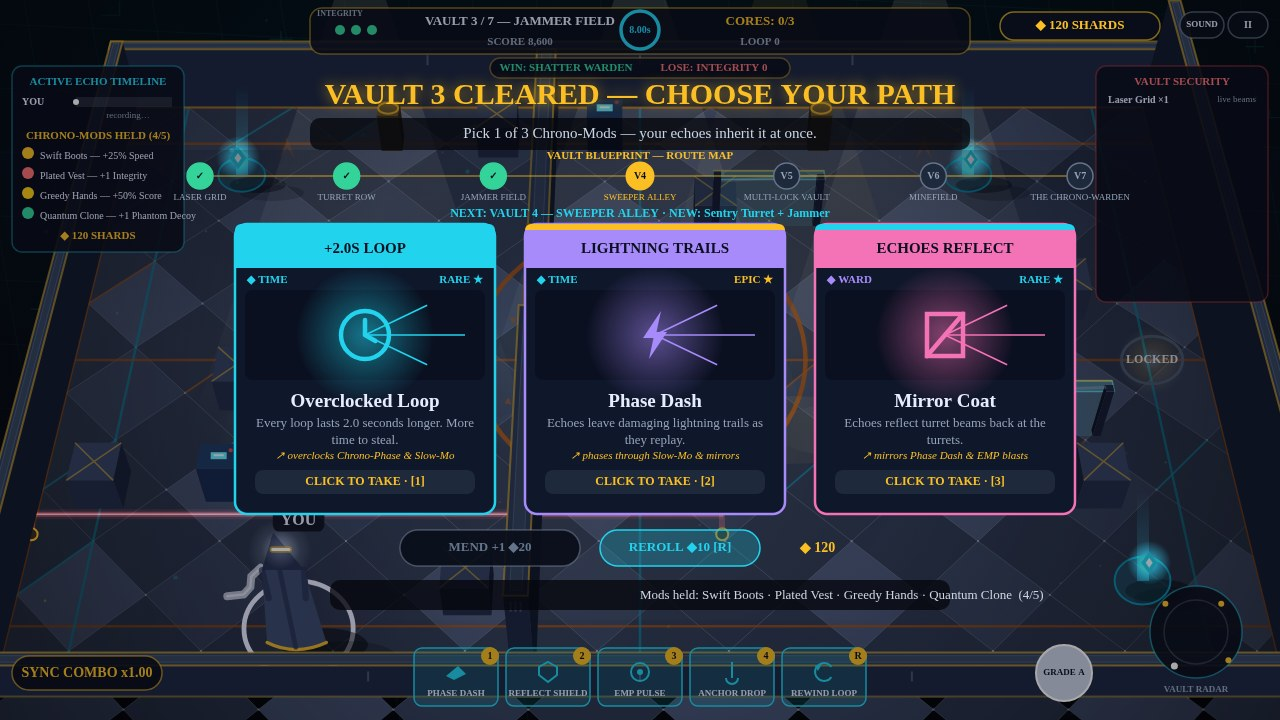
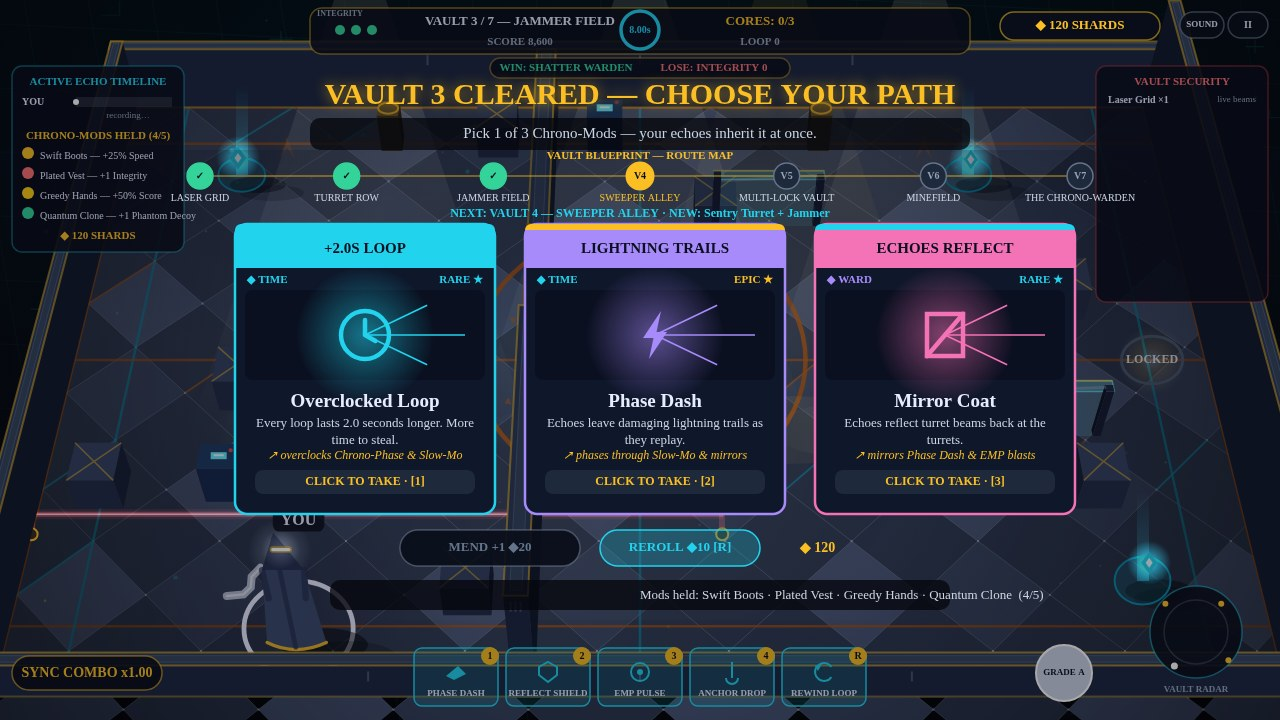
top1-push: luminous open-frame Warden core, 6 wing arms, boosted tethers + corner prism rays, thumbnail-crisp title/draft type

diff --git a/game/src/entities.js b/game/src/entities.js
@@ -586,7 +586,7 @@ export function drawWarden(ctx, w, time) {
   for (let k = -1; k <= 1; k++) {
     const lb = iso(x + k * 36, y + 19);
     const lt = iso(x + k * 36, y + 19, 28);
-    ctx.fillStyle = '#4a4238';
+    ctx.fillStyle = '#6b5a2e';
     ctx.fillRect(lb.x - 6, lt.y, 12, lb.y - lt.y);
     ctx.fillStyle = GOLD;
     ctx.fillRect(lb.x - 6, lb.y - 6, 12, 4);
@@ -668,41 +668,65 @@ export function drawWarden(ctx, w, time) {
     hexTop.push(iso(x + Math.cos(a) * 63, y + Math.sin(a) * 63, 48));
     hexBot.push(iso(x + Math.cos(a) * 63, y + Math.sin(a) * 63, 0));
   }
-  for (let i = 0; i < 6; i++) {
-    const j = (i + 1) % 6;
-    ctx.fillStyle = i % 2 === 0 ? '#1c2740' : '#141b2e';
+  // Open luminous frame: golden halo + blazing hourglass star, NO dark fill.
+  glowAt(ctx, glowSprite(GOLD, { a0: 0.85 }), top.x, top.y, 80);
+  glowAt(ctx, glowSprite('#fde68a', { a0: 0.9 }), top.x, top.y, 55);
+  const star = (r, col, a) => {
+    ctx.save();
+    ctx.globalCompositeOperation = 'lighter';
+    ctx.globalAlpha = a;
+    ctx.fillStyle = col;
     ctx.beginPath();
-    ctx.moveTo(hexTop[i].x, hexTop[i].y);
-    ctx.lineTo(hexTop[j].x, hexTop[j].y);
-    ctx.lineTo(hexBot[j].x, hexBot[j].y);
-    ctx.lineTo(hexBot[i].x, hexBot[i].y);
+    for (let k = 0; k < 8; k++) {
+      const an = (k / 8) * Math.PI * 2 - Math.PI / 2;
+      const rr = k % 2 === 0 ? r : r * 0.22;
+      const px = top.x + Math.cos(an) * rr * 0.8, py = top.y + Math.sin(an) * rr;
+      k === 0 ? ctx.moveTo(px, py) : ctx.lineTo(px, py);
+    }
     ctx.closePath();
     ctx.fill();
+    ctx.restore();
+  };
+  star(40, GOLD, 0.9);
+  star(28, '#f97316', 0.95);
+  star(14, '#fef3c7', 1);
+  dot(ctx, top.x, top.y, 5, '#fff');
+  ctx.save();
+  ctx.globalCompositeOperation = 'lighter';
+  ctx.strokeStyle = 'rgba(254,243,199,0.85)';
+  ctx.lineWidth = 3;
+  ctx.lineCap = 'round';
+  for (const [dx, dy] of [[0, -1], [1, 0], [0, 1], [-1, 0]]) {
+    ctx.beginPath();
+    ctx.moveTo(top.x + dx * 24, top.y + dy * 24);
+    ctx.lineTo(top.x + dx * 64, top.y + dy * 64);
+    ctx.stroke();
   }
-  ctx.fillStyle = '#232a42';
+  ctx.restore();
+  // Gilded hex frame, stroke only, with open edge columns (a clockwork cage).
   ctx.strokeStyle = GOLD;
   ctx.lineWidth = 3;
   ctx.beginPath();
   hexTop.forEach((p, i) => (i === 0 ? ctx.moveTo(p.x, p.y) : ctx.lineTo(p.x, p.y)));
   ctx.closePath();
-  ctx.fill();
   ctx.stroke();
-  ctx.save();
-  ctx.strokeStyle = CYAN;
-  ctx.lineWidth = 2;
+  ctx.strokeStyle = 'rgba(34,211,238,0.7)';
+  ctx.lineWidth = 1.5;
   ctx.beginPath();
-  ctx.ellipse(top.x, top.y, 28, 16, 0, 0, Math.PI * 2);
+  hexTop.forEach((p, i) => {
+    const qx = top.x + (p.x - top.x) * 0.8, qy = top.y + (p.y - top.y) * 0.8;
+    i === 0 ? ctx.moveTo(qx, qy) : ctx.lineTo(qx, qy);
+  });
+  ctx.closePath();
   ctx.stroke();
-  for (let i = 0; i < 8; i++) {
-    const a = (i / 8) * Math.PI * 2 + time * 0.4;
-    const s1 = iso(x + Math.cos(a) * 28, y + Math.sin(a) * 28, 48);
-    const s2 = iso(x + Math.cos(a) * 38, y + Math.sin(a) * 38, 48);
+  ctx.strokeStyle = 'rgba(251,191,36,0.8)';
+  ctx.lineWidth = 2.5;
+  for (let i = 0; i < 6; i++) {
     ctx.beginPath();
-    ctx.moveTo(s1.x, s1.y);
-    ctx.lineTo(s2.x, s2.y);
+    ctx.moveTo(hexTop[i].x, hexTop[i].y);
+    ctx.lineTo(hexBot[i].x, hexBot[i].y);
     ctx.stroke();
   }
-  ctx.restore();
   const ring = (rx, ry, rot, col) => {
     ctx.save();
     ctx.strokeStyle = col;
@@ -715,12 +739,12 @@ export function drawWarden(ctx, w, time) {
     dot(ctx, nx, ny, 3.5, col);
     ctx.restore();
   };
-  ring(42, 24, time * 0.3, 'rgba(251,191,36,0.8)');
-  ring(34, 19, -time * 0.45, 'rgba(34,211,238,0.7)');
+  ring(50, 29, time * 0.3, 'rgba(251,191,36,0.9)');
+  ring(40, 23, -time * 0.45, 'rgba(34,211,238,0.8)');
   const gaze = w.gaze || 0;
   const gx = Math.cos(gaze) * 3, gy = Math.sin(gaze) * 1.5;
   const pupilR = w.state === 'telegraph' ? 3 : w.state === 'sweep' ? 8 : w.shield ? 4 : 7;
-  const glowR = w.state === 'sweep' ? 40 : w.state === 'telegraph' ? 34 + 4 * Math.sin(time * 10) : 30;
+  const glowR = w.state === 'sweep' ? 48 : w.state === 'telegraph' ? 42 + 5 * Math.sin(time * 10) : 38;
   glowAt(ctx, glowSprite(RED, { a0: 1 }), top.x, top.y, glowR);
   ctx.fillStyle = '#7f1d1d';
   ctx.beginPath();
@@ -738,11 +762,30 @@ export function drawWarden(ctx, w, time) {
   ctx.fill();
   dot(ctx, top.x + gx, top.y + gy, pupilR, DARKT);
   dot(ctx, top.x + gx - 2, top.y + gy - 2, 1.5, '#fff');
+  // 6 articulated mechanical wings: two-segment blades, flapping slowly.
   for (let i = 0; i < 6; i++) {
     const a = (i / 6) * Math.PI * 2 + time * 0.25;
-    const gx = iso(x + Math.cos(a) * 63, y + Math.sin(a) * 63, 67);
-    dot(ctx, gx.x, gx.y, 7, '#8b93ad');
-    dot(ctx, gx.x, gx.y, 3, GOLD);
+    const flap = Math.sin(time * 2 + i * 1.1) * 7;
+    const b = iso(x + Math.cos(a) * 63, y + Math.sin(a) * 63, 67);
+    const j = iso(x + Math.cos(a) * 84, y + Math.sin(a) * 84, 78 + flap * 0.5);
+    const t = iso(x + Math.cos(a) * 104, y + Math.sin(a) * 104, 88 + flap);
+    const px = -(t.y - b.y), py = t.x - b.x;
+    const pl = Math.hypot(px, py) || 1;
+    const ux = px / pl, uy = py / pl;
+    ctx.fillStyle = 'rgba(251,191,36,0.92)';
+    ctx.beginPath();
+    ctx.moveTo(b.x + ux * 7, b.y + uy * 7);
+    ctx.lineTo(j.x + ux * 5, j.y + uy * 5);
+    ctx.lineTo(t.x, t.y);
+    ctx.lineTo(j.x - ux * 5, j.y - uy * 5);
+    ctx.lineTo(b.x - ux * 7, b.y - uy * 7);
+    ctx.closePath();
+    ctx.fill();
+    ctx.strokeStyle = 'rgba(34,211,238,0.7)';
+    ctx.lineWidth = 1.5;
+    ctx.stroke();
+    dot(ctx, j.x, j.y, 3.5, GOLD);
+    dot(ctx, t.x, t.y, 2.5, '#fef3c7');
   }
   ctx.restore(); // end 1.6x body scale
   ctx.save();
@@ -756,7 +799,7 @@ export function drawWarden(ctx, w, time) {
   for (const a of WARDEN_PYLONS) {
     const px = iso(x + Math.cos(a) * 52, y + Math.sin(a) * 52, 0);
     const pt = iso(x + Math.cos(a) * 52, y + Math.sin(a) * 52, 22);
-    ctx.fillStyle = w.shield ? '#3a2f14' : '#1a1214';
+    ctx.fillStyle = w.shield ? '#6b5a2e' : '#3f1d24';
     ctx.beginPath();
     ctx.moveTo(pt.x, pt.y);
     ctx.lineTo(px.x + 6, px.y);
@@ -764,8 +807,9 @@ export function drawWarden(ctx, w, time) {
     ctx.lineTo(px.x - 6, px.y);
     ctx.closePath();
     ctx.fill();
-    dot(ctx, pt.x, pt.y, 4, w.shield ? GOLD : '#7f1d1d');
-    ctx.strokeStyle = w.shield ? 'rgba(251,191,36,0.35)' : 'rgba(239,68,68,0.25)';
+    glowAt(ctx, glowSprite(w.shield ? GOLD : RED, { a0: 0.8 }), pt.x, pt.y, 16);
+    dot(ctx, pt.x, pt.y, 6, w.shield ? GOLD : '#ef4444');
+    ctx.strokeStyle = w.shield ? 'rgba(251,191,36,0.6)' : 'rgba(239,68,68,0.45)';
     ctx.lineWidth = 1.5;
     ctx.beginPath();
     ctx.moveTo(pt.x, pt.y);

diff --git a/game/src/render.js b/game/src/render.js
@@ -892,27 +892,57 @@ function drawTethers(ctx, G, time) {
     const n = iso(w.x + Math.cos(best) * 52, w.y + Math.sin(best) * 52, 24);
     const s = iso(e.x, e.y, 42);
     const pulse = 0.75 + 0.25 * Math.sin(time * 5 + e.idx * 1.7);
-    ctx.strokeStyle = e.color + '2e';
+    ctx.strokeStyle = e.color + '1f';
+    ctx.lineWidth = 18;
+    ctx.beginPath();
+    ctx.moveTo(s.x, s.y);
+    ctx.lineTo(n.x, n.y);
+    ctx.stroke();
+    ctx.strokeStyle = e.color + '4d';
     ctx.lineWidth = 10;
     ctx.beginPath();
     ctx.moveTo(s.x, s.y);
     ctx.lineTo(n.x, n.y);
     ctx.stroke();
-    ctx.strokeStyle = e.color + '66';
+    ctx.strokeStyle = e.color + 'd9';
     ctx.lineWidth = 5;
     ctx.beginPath();
     ctx.moveTo(s.x, s.y);
     ctx.lineTo(n.x, n.y);
     ctx.stroke();
-    ctx.strokeStyle = 'rgba(254,243,199,' + (0.9 * pulse).toFixed(2) + ')';
-    ctx.lineWidth = 2;
+    ctx.strokeStyle = 'rgba(254,243,199,' + (0.95 * pulse).toFixed(2) + ')';
+    ctx.lineWidth = 2.5;
     ctx.beginPath();
     ctx.moveTo(s.x, s.y);
     ctx.lineTo(n.x, n.y);
     ctx.stroke();
+    dot(ctx, s.x, s.y, 4, '#fef3c7');
     const tt = (time * 0.45 + e.idx * 0.25) % 1;
-    dot(ctx, s.x + (n.x - s.x) * tt, s.y + (n.y - s.y) * tt, 3.5, '#fff');
-    dot(ctx, n.x, n.y, 4, GOLD);
+    dot(ctx, s.x + (n.x - s.x) * tt, s.y + (n.y - s.y) * tt, 5, '#fff');
+    dot(ctx, n.x, n.y, 6, GOLD);
+  }
+  // Corner prism reflections: bright rays from the 4 screen corners to the core.
+  const core = iso(w.x, w.y, 48);
+  const corners = [[0, 0, CYAN], [W, 0, GOLD], [0, H, GOLD], [W, H, CYAN]];
+  for (const [cx, cy, col] of corners) {
+    const tx = core.x + (cx < W / 2 ? -30 : 30);
+    const ty = core.y + (cy < H / 2 ? -18 : 18);
+    ctx.strokeStyle = col + '38';
+    ctx.lineWidth = 14;
+    ctx.beginPath(); ctx.moveTo(cx, cy); ctx.lineTo(tx, ty); ctx.stroke();
+    ctx.strokeStyle = col + '8c';
+    ctx.lineWidth = 6;
+    ctx.beginPath(); ctx.moveTo(cx, cy); ctx.lineTo(tx, ty); ctx.stroke();
+    ctx.strokeStyle = 'rgba(255,255,255,0.85)';
+    ctx.lineWidth = 2;
+    ctx.beginPath(); ctx.moveTo(cx, cy); ctx.lineTo(tx, ty); ctx.stroke();
+    const ix = cx < W / 2 ? 16 : W - 16, iy = cy < H / 2 ? 16 : H - 16;
+    glowAt(ctx, glowSprite(col, { a0: 0.8 }), ix, iy, 18);
+    ctx.fillStyle = '#fff';
+    ctx.beginPath();
+    ctx.moveTo(ix, iy - 6); ctx.lineTo(ix + 6, iy); ctx.lineTo(ix, iy + 6); ctx.lineTo(ix - 6, iy);
+    ctx.closePath(); ctx.fill();
+    dot(ctx, tx, ty, 3.5, '#fff');
   }
   ctx.restore();
 }
@@ -1197,9 +1227,9 @@ export function drawTitle(ctx, G, time) {
     ctx.fillStyle = t[2];
     ctx.beginPath(); ctx.arc(1098, y - 2, 5, 0, Math.PI * 2); ctx.fill();
     text(ctx, t[0], 1110, y - 2, F11, INK, 'left');
-    text(ctx, t[1], 1110, y + 12, R10, MUTE, 'left');
+    text(ctx, t[1], 1110, y + 12, R10, PALE, 'left');
   });
-  text(ctx, 'DIFFICULTY', 640, 488, F11, MUTE);
+  text(ctx, 'DIFFICULTY', 640, 488, F11, PALE);
   const diffs = [['CALM', '×0.75'], ['HEIST', '×1'], ['NIGHTMARE', '×1.5']];
   diffs.forEach((d, i) => {
     const x = 445 + i * 135, sel = G.diff === d[0];
@@ -1320,7 +1350,7 @@ export function drawDraft(ctx, G) {
     ctx.strokeStyle = done ? GREEN : next ? GOLD : SLATE;
     ctx.lineWidth = next ? 3 : 1.5; ctx.stroke();
     text(ctx, done ? '✓' : 'V' + (i + 1), nx, 176, F10, done || next ? DARKT : MUTE);
-    text(ctx, STAGE_NAMES[i + 1], nx, 198, R9, next ? GOLD : MUTE);
+    text(ctx, STAGE_NAMES[i + 1], nx, 198, R10, next ? GOLD : PALE);
   }
   text(ctx, 'NEXT: VAULT ' + (st.stage + 1) + ' — ' + STAGE_NAMES[st.stage + 1] + ' · NEW: ' + NEXT_NEW[st.stage + 1], 640, 214, F12, CYAN);
   st.draft.forEach((m, i) => {
@@ -1368,11 +1398,11 @@ export function drawDraft(ctx, G) {
     ctx.fillStyle = INK;
     ctx.font = 'bold 19px Georgia, serif';
     ctx.fillText(m.name, x + w / 2, y + 178);
-    ctx.fillStyle = MUTE;
+    ctx.fillStyle = PALE;
     ctx.font = '13px Georgia, serif';
     wrapText(ctx, m.desc, x + w / 2, y + 200, w - 32, 17);
     ctx.fillStyle = GOLD;
-    ctx.font = 'italic 11px Georgia, serif';
+    ctx.font = 'italic 12px Georgia, serif';
     ctx.fillText('↗ ' + m.syn, x + w / 2, y + 232);
     ctx.fillStyle = '#1e293b';
     ctx.beginPath();
